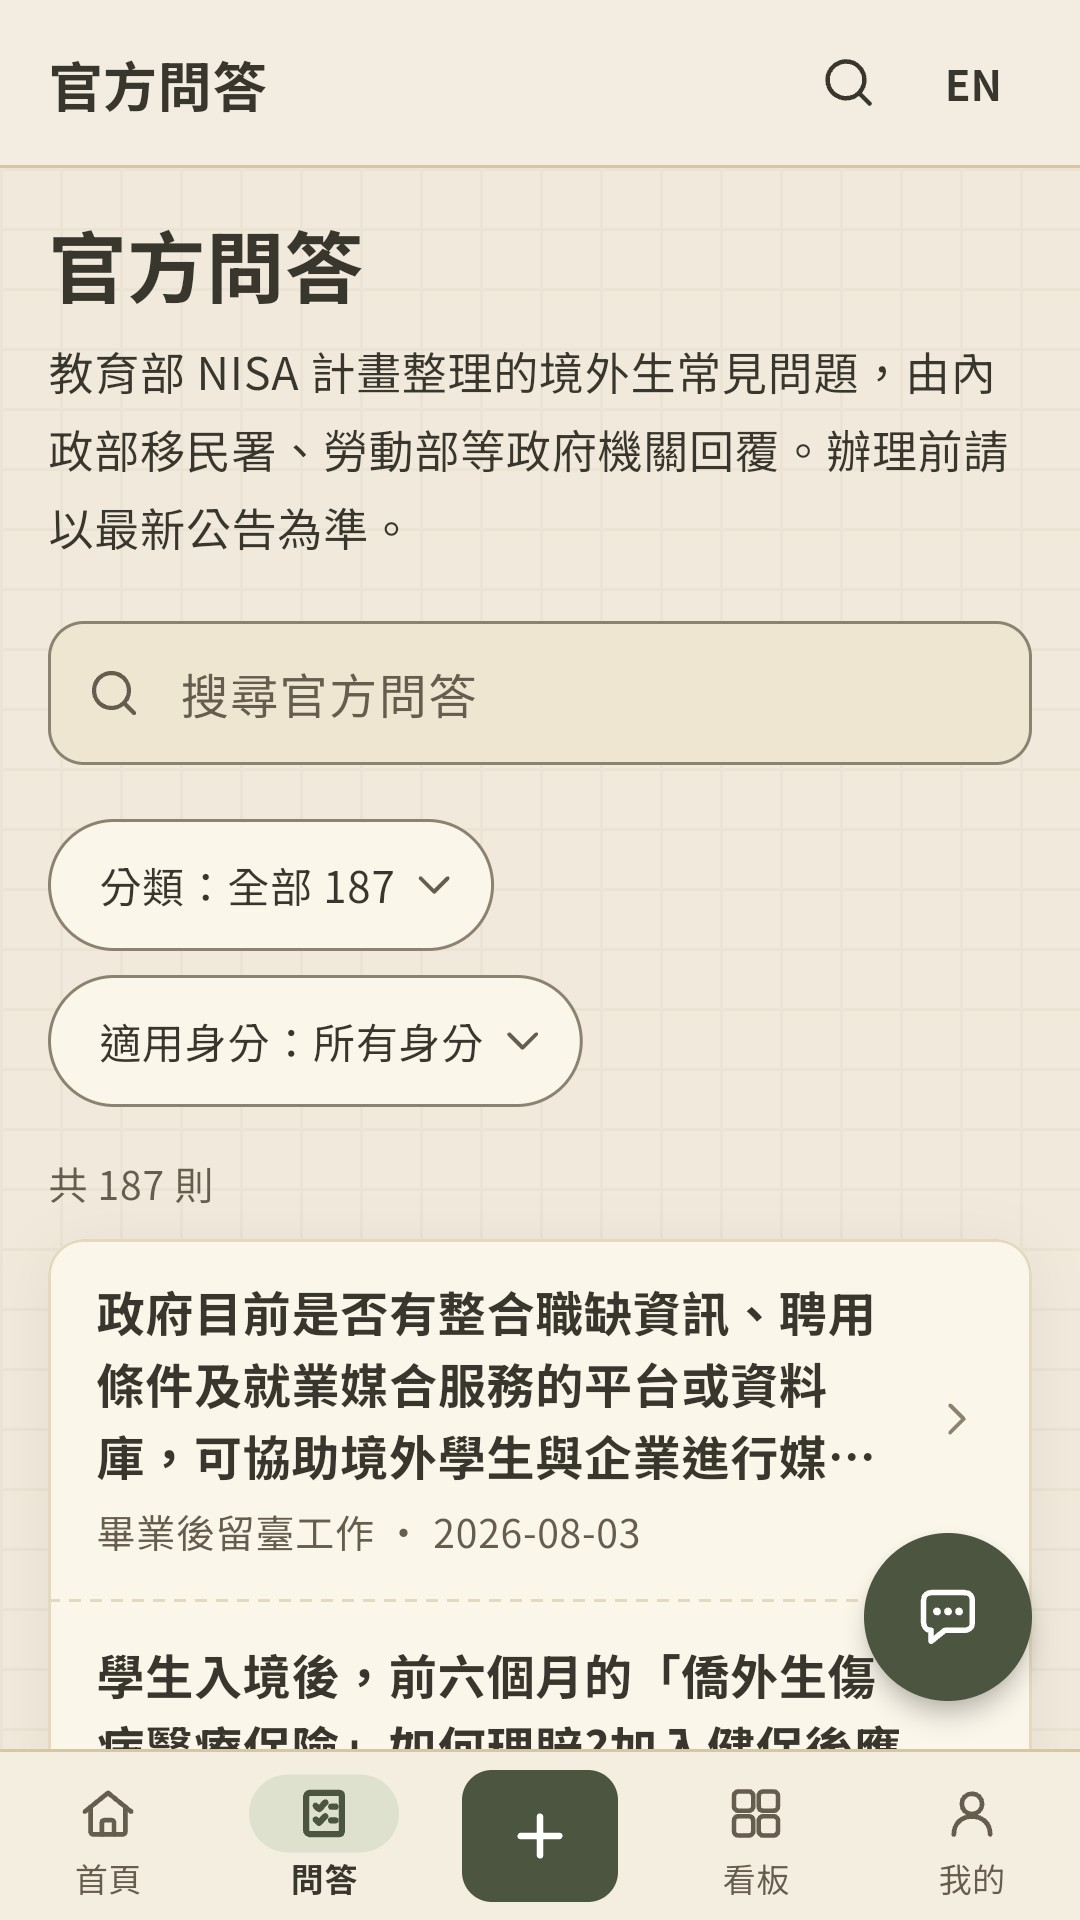
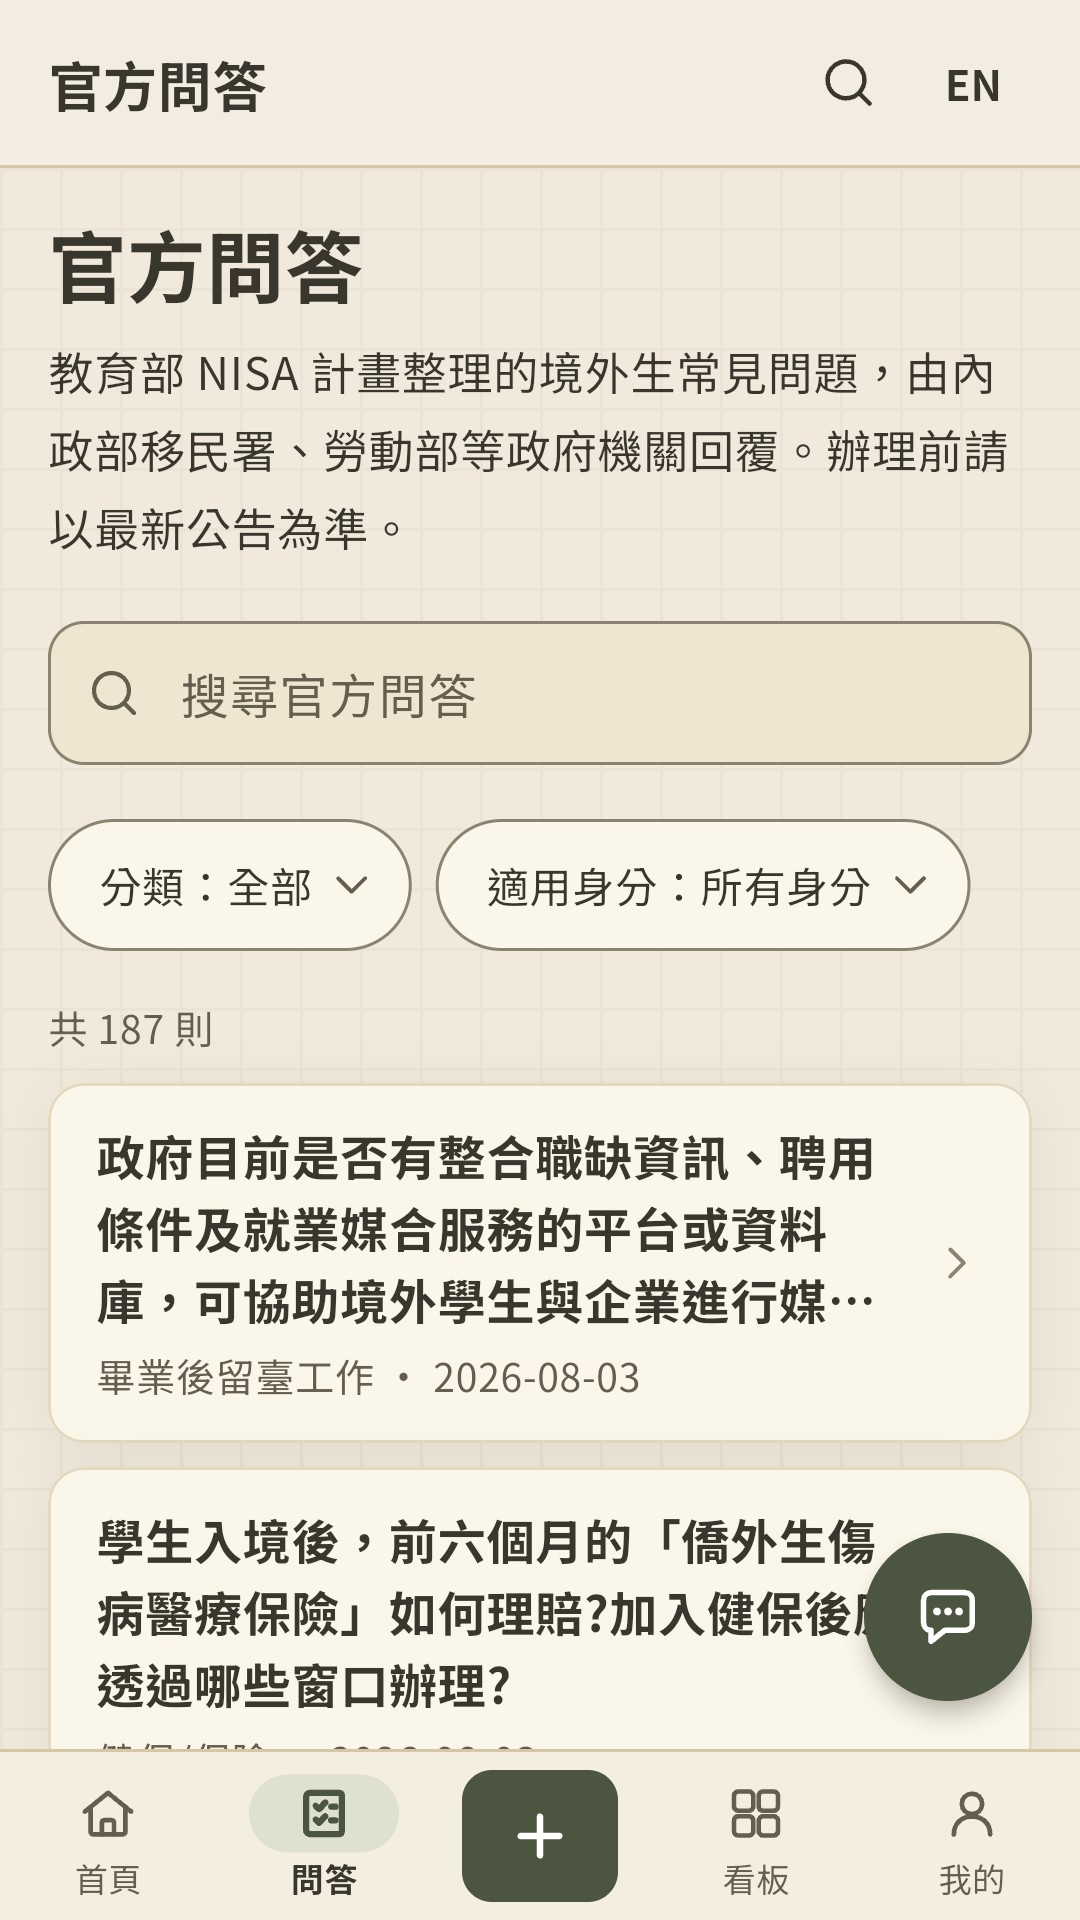
fix: Q&A filter menus without counts; one card per question
The filter menus showed counts on the button and every choice; they now
show only the names. The question list was one card split by faint
dashed lines; each question is now its own card, spaced like posts.
Store screenshots re-shot to match.

diff --git a/flutter_app/test/widget_test.dart b/flutter_app/test/widget_test.dart
@@ -137,14 +137,14 @@ void main() {
       expect(find.byKey(Key('faq-row-$id')), findsOneWidget);
     }
     // One menu per filter, not a row of chips; the menu shows each category's count.
-    expect(find.text('分類：全部 3'), findsOneWidget);
+    expect(find.text('分類：全部'), findsOneWidget);
     expect(find.text('適用身分：所有身分'), findsOneWidget);
     expect(find.byKey(const Key('faq-cat-work')), findsNothing);
     await tap(tester, find.byKey(const Key('faq-cat')));
-    expect(find.text('工作 1'), findsOneWidget);
+    expect(find.text('工作'), findsOneWidget);
 
     await tap(tester, find.byKey(const Key('faq-cat-work')));
-    expect(find.text('分類：工作 1'), findsOneWidget);
+    expect(find.text('分類：工作'), findsOneWidget);
     expect(find.text('共 1 則'), findsOneWidget);
     expect(find.byKey(const Key('faq-row-nisa-1001')), findsOneWidget);
     expect(find.byKey(const Key('faq-row-nisa-1070')), findsNothing);
@@ -168,9 +168,9 @@ void main() {
   testWidgets('School admin questions are never listed', (tester) async {
     await mount(tester, '/faqs', const Size(375, 1600));
     expect(find.text('共 3 則'), findsOneWidget);
-    expect(find.text('分類：全部 3'), findsOneWidget);
+    expect(find.text('分類：全部'), findsOneWidget);
     await tap(tester, find.byKey(const Key('faq-cat')));
-    expect(find.text('簽證與居留 1'), findsOneWidget);
+    expect(find.text('簽證與居留'), findsOneWidget);
     await tester.tapAt(Offset.zero); // close the menu
     await tester.pumpAndSettle();
     expect(find.byKey(const Key('faq-row-nisa-800')), findsNothing);
@@ -262,11 +262,13 @@ void main() {
     },
   );
 
-  testWidgets('Category counts follow the identity filter', (tester) async {
+  testWidgets('Categories follow the identity filter', (tester) async {
     await mount(tester, '/faqs', const Size(375, 1600));
     await pick(tester, 'faq-who', 'mainland');
-    // Only the mainland question remains, so「全部」counts one.
-    expect(find.text('分類：全部 1'), findsOneWidget);
+    expect(find.text('共 1 則'), findsOneWidget);
+    // A category with no question for this identity is not offered.
+    await tap(tester, find.byKey(const Key('faq-cat')));
+    expect(find.byKey(const Key('faq-cat-work')), findsNothing);
   });
 
   testWidgets('A post lists related official questions, or none', (

diff --git a/flutter_app/lib/ui/features/faq_pages.dart b/flutter_app/lib/ui/features/faq_pages.dart
@@ -174,10 +174,9 @@ class _FaqsPageState extends State<FaqsPage> {
               label: vm.pair('分類', 'Category'),
               selected: category,
               options: [
-                ('all', vm.pair('全部 ${forWho.length}', 'All ${forWho.length}')),
+                ('all', vm.pair('全部', 'All')),
                 for (final c in all.categories)
-                  if ((counts[c.id] ?? 0) > 0)
-                    (c.id, '${c.name.of(vm.english)} ${counts[c.id]}'),
+                  if ((counts[c.id] ?? 0) > 0) (c.id, c.name.of(vm.english)),
               ],
               onSelected: (id) => _set(() => _category = id),
             ),
@@ -340,19 +339,19 @@ class FaqList extends StatelessWidget {
         if (!faq.forSchool) faq,
     ];
     if (shown.isEmpty) return const SizedBox.shrink();
-    return NoteCard(
-      padding: EdgeInsets.zero,
-      child: Column(
-        children: [
-          for (final (i, faq) in shown.indexed) ...[
-            if (i > 0) const DashedRule(),
-            _FaqRow(
+    // One card per question, spaced like the post list, so each stands apart.
+    return CardList(
+      gap: 8,
+      children: [
+        for (final faq in shown)
+          NoteCard(
+            padding: EdgeInsets.zero,
+            child: _FaqRow(
               faq: faq,
               category: names?.category(faq.categoryId)?.name.of(vm.english),
             ),
-          ],
-        ],
-      ),
+          ),
+      ],
     );
   }
 }
